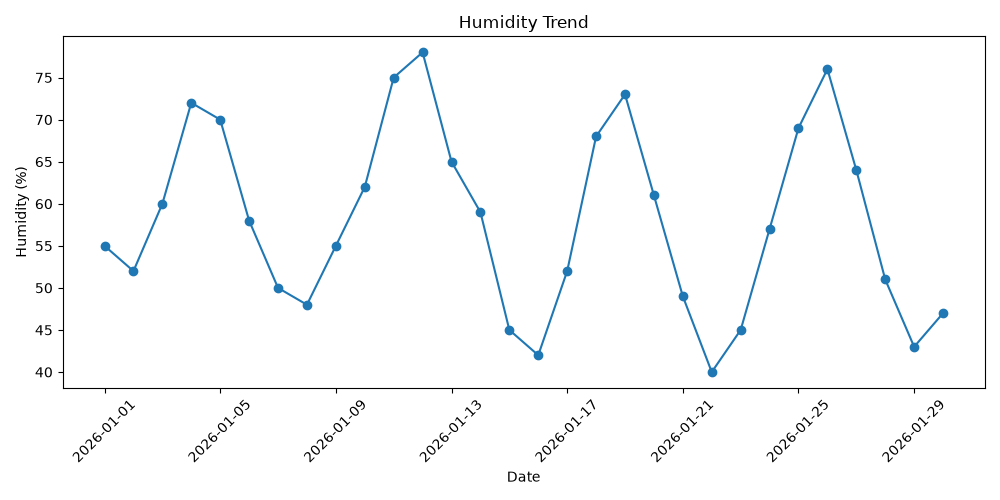
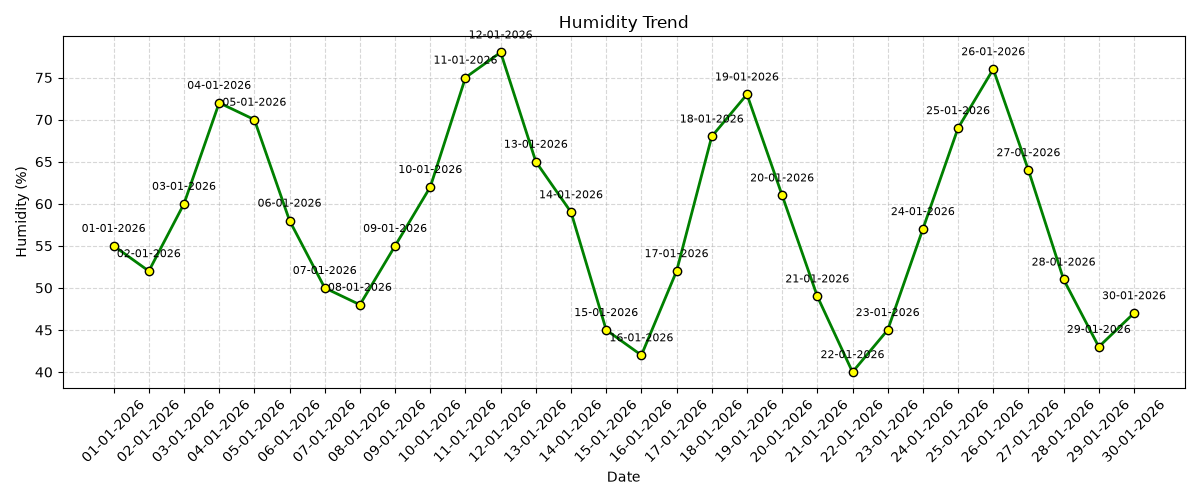
ADD README file

diff --git a/weather_analysis.py b/weather_analysis.py
@@ -230,24 +230,40 @@ print(correlation)
 # GRAPH 1 - TEMPERATURE TREND
 # ============================================
 
-plt.figure(figsize=(10, 5))
+plt.figure(figsize=(12, 5))
 
 plt.plot(
     df["Date"],
     df["Temperature"],
-    marker="o"
+    marker="o",
+    color="blue",
+    linewidth=2,
+    markerfacecolor="red",
+    markeredgecolor="black"
 )
+
+# Date labels on every dot
+for i in range(len(df)):
+    plt.annotate(
+        df["Date"].iloc[i].strftime("%d-%m-%Y"),
+        (df["Date"].iloc[i], df["Temperature"].iloc[i]),
+        textcoords="offset points",
+        xytext=(0, 10),
+        ha="center",
+        fontsize=8,
+        color="black"
+    )
 
 plt.title("Temperature Trend")
 plt.xlabel("Date")
 plt.ylabel("Temperature (°C)")
 plt.xticks(rotation=45)
+plt.grid(True, linestyle="--", alpha=0.5)
 
 plt.tight_layout()
-
 plt.savefig("graphs/temperature_trend.png")
-
 plt.show()
+
 
 # ============================================
 # GRAPH 2 - WEATHER CONDITION
@@ -255,17 +271,19 @@ plt.show()
 
 plt.figure(figsize=(7, 5))
 
-weather_count.plot(kind="bar")
+weather_count.plot(
+    kind="bar",
+    color=["orange", "skyblue", "green"]
+)
 
 plt.title("Weather Condition Frequency")
 plt.xlabel("Weather Condition")
 plt.ylabel("Number of Days")
 
 plt.tight_layout()
-
 plt.savefig("graphs/weather_condition.png")
-
 plt.show()
+
 
 # ============================================
 # GRAPH 3 - RAINFALL
@@ -275,67 +293,111 @@ plt.figure(figsize=(10, 5))
 
 plt.bar(
     df["Date"],
-    df["Rainfall"]
+    df["Rainfall"],
+    color="skyblue",
+    edgecolor="blue"
 )
 
 plt.title("Daily Rainfall")
 plt.xlabel("Date")
 plt.ylabel("Rainfall (mm)")
 
-plt.xticks(rotation=45)
+plt.xticks(
+    df["Date"],
+    df["Date"].dt.strftime("%d-%m-%Y"),
+    rotation=45
+)
 
 plt.tight_layout()
-
 plt.savefig("graphs/rainfall.png")
-
 plt.show()
+
 
 # ============================================
 # GRAPH 4 - HUMIDITY
 # ============================================
-
-plt.figure(figsize=(10, 5))
+plt.figure(figsize=(12, 5))
 
 plt.plot(
     df["Date"],
     df["Humidity"],
-    marker="o"
+    marker="o",
+    color="green",
+    linewidth=2,
+    markerfacecolor="yellow",
+    markeredgecolor="black"
 )
+
+# Date labels on every dot
+for i in range(len(df)):
+    plt.annotate(
+        df["Date"].iloc[i].strftime("%d-%m-%Y"),
+        (df["Date"].iloc[i], df["Humidity"].iloc[i]),
+        textcoords="offset points",
+        xytext=(0, 10),
+        ha="center",
+        fontsize=8,
+        color="black"
+    )
 
 plt.title("Humidity Trend")
 plt.xlabel("Date")
 plt.ylabel("Humidity (%)")
 
-plt.xticks(rotation=45)
+plt.xticks(
+    df["Date"],
+    df["Date"].dt.strftime("%d-%m-%Y"),
+    rotation=45
+)
+
+plt.grid(True, linestyle="--", alpha=0.5)
 
 plt.tight_layout()
-
 plt.savefig("graphs/humidity.png")
-
 plt.show()
+
 
 # ============================================
 # GRAPH 5 - WIND SPEED
 # ============================================
-
-plt.figure(figsize=(10, 5))
+plt.figure(figsize=(12, 5))
 
 plt.plot(
     df["Date"],
     df["WindSpeed"],
-    marker="o"
+    marker="o",
+    color="purple",
+    linewidth=2,
+    markerfacecolor="pink",
+    markeredgecolor="black"
 )
+
+# Date labels on every dot
+for i in range(len(df)):
+    plt.annotate(
+        df["Date"].iloc[i].strftime("%d-%m-%Y"),
+        (df["Date"].iloc[i], df["WindSpeed"].iloc[i]),
+        textcoords="offset points",
+        xytext=(0, 10),
+        ha="center",
+        fontsize=8,
+        color="black"
+    )
 
 plt.title("Wind Speed Trend")
 plt.xlabel("Date")
 plt.ylabel("Wind Speed (km/h)")
 
-plt.xticks(rotation=45)
+plt.xticks(
+    df["Date"],
+    df["Date"].dt.strftime("%d-%m-%Y"),
+    rotation=45
+)
+
+plt.grid(True, linestyle="--", alpha=0.5)
 
 plt.tight_layout()
-
 plt.savefig("graphs/wind_speed.png")
-
 plt.show()
 
 # ============================================
@@ -346,7 +408,9 @@ plt.figure(figsize=(8, 5))
 
 plt.hist(
     df["Temperature"],
-    bins=8
+    bins=8,
+    color="orange",
+    edgecolor="black"
 )
 
 plt.title("Temperature Distribution")
@@ -354,10 +418,9 @@ plt.xlabel("Temperature (°C)")
 plt.ylabel("Frequency")
 
 plt.tight_layout()
-
 plt.savefig("graphs/temperature_distribution.png")
-
 plt.show()
+
 
 # ============================================
 # GRAPH 7 - TEMPERATURE VS RAINFALL
@@ -367,18 +430,23 @@ plt.figure(figsize=(8, 5))
 
 plt.scatter(
     df["Temperature"],
-    df["Rainfall"]
+    df["Rainfall"],
+    color="red",
+    marker="o",
+    s=80,
+    edgecolor="black"
 )
 
 plt.title("Temperature vs Rainfall")
 plt.xlabel("Temperature (°C)")
 plt.ylabel("Rainfall (mm)")
 
+plt.grid(True, linestyle="--", alpha=0.5)
+
 plt.tight_layout()
-
 plt.savefig("graphs/temp_vs_rainfall.png")
-
 plt.show()
+
 
 # ============================================
 # FINAL MESSAGE
